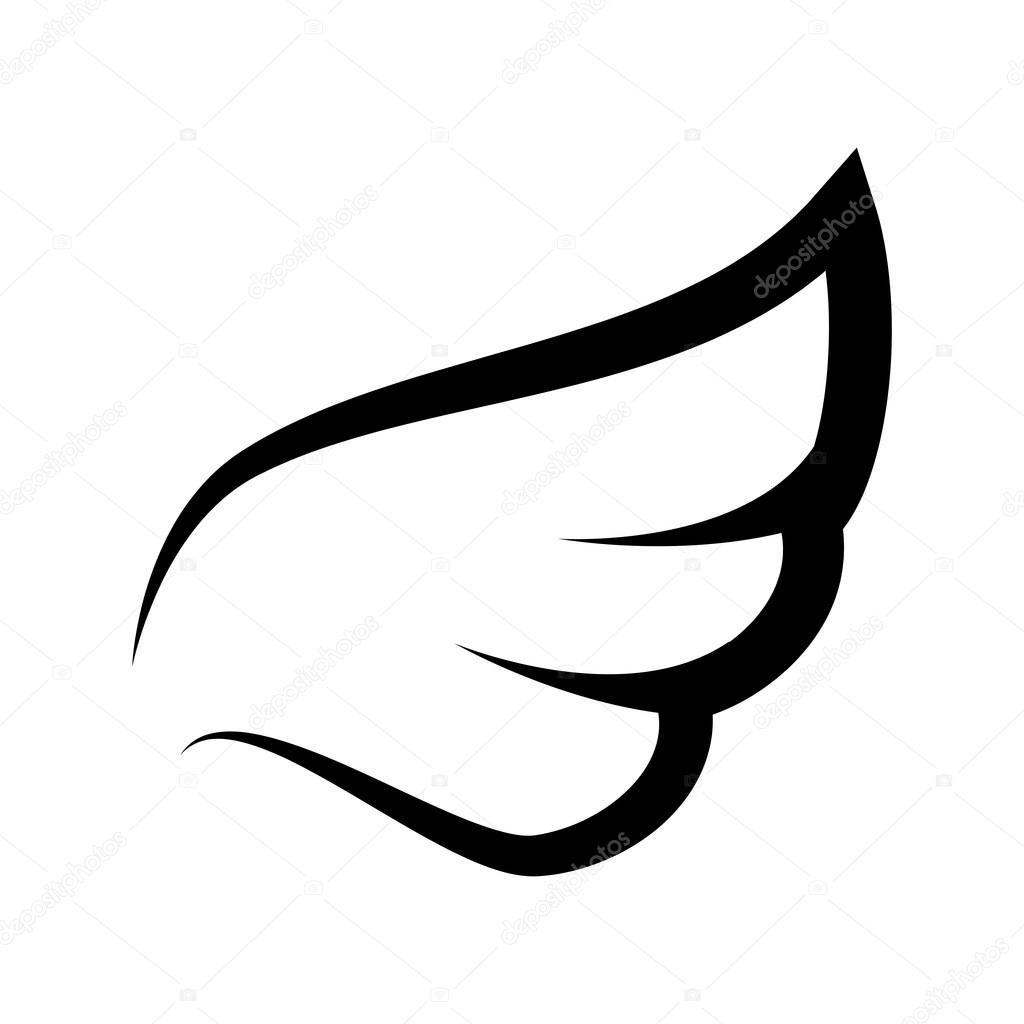
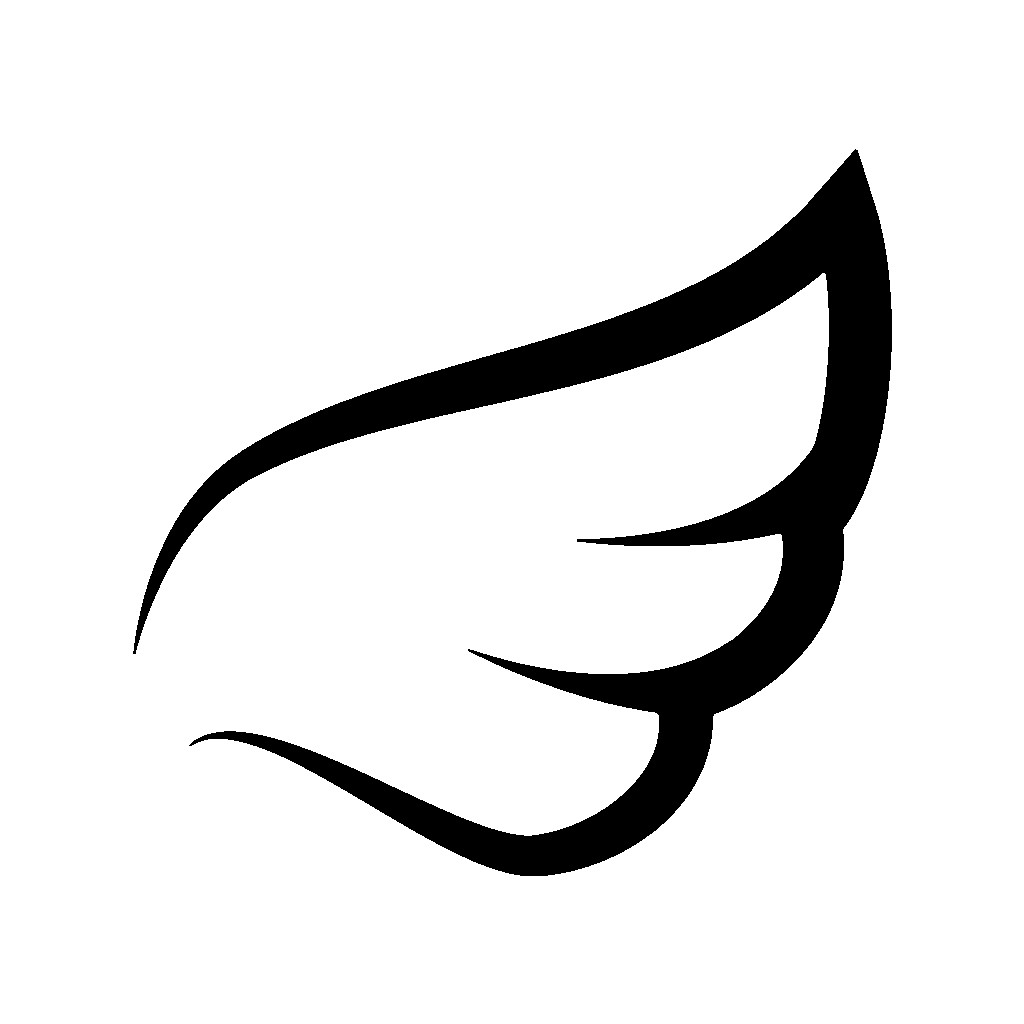
fix(raças): o Dragão sem asas; o Orsted de corpo inteiro volta pra Raça Dragão (0.1.111)
- Sem asas: na obra a Raça Dragão (Orsted, Laplace, Perugius) tem corpo de
  gente; teste trava.
- racas/dragao.webp volta a ser o Orsted na aura (em pé, página inteira da
  mítica); o esboço deitado vai pro acervo (orsted-esboco-deitado.webp).
  Foco do recorte no rosto; cópia de impressão regerada.
- Ícones do Dragão, do Demônio Imortal e do Celestial sem a marca d'água de
  banco de imagem (limiar + mediana).

diff --git a/src/data/races.ts b/src/data/races.ts
@@ -561,6 +561,9 @@ export const RACES: Race[] = [
     // de uma raça lendária (~6 PC, par do Demônio Imortal), e por isso passou a
     // poder ser ESCOLHIDO pelo preço da lendária (3 PA). O dragão adulto é o
     // despertar do Santo, uma vez por dia.
+    // Sem asas (2026-09-27, o autor: "em Mushoku eles não têm asas"): a Raça
+    // Dragão da obra — Orsted, Laplace, Perugius — tem corpo de gente. Quem
+    // voa são os Dragões Vermelhos, que são monstro, não raça.
     bonuses: { attributes: { forca: 1, vigor: 1 }, armorClass: 1 },
     upgrades: [
       {
@@ -583,7 +586,6 @@ export const RACES: Race[] = [
       "Escamas Dracônicas: +1 na CA (permanente, empilha com armadura).",
       "Garras e Presas: ataques desarmados com Dado Base d8, que sobem na Escada de Dados (Cap. 3) com o seu maior patamar do Corpo.",
       "Sopro Dracônico (1 Ação, 1 vez por Descanso Curto): cone de 9 metros do seu elemento, 1d6 por ponto do seu Maior Bônus de Rank (6d6 no Imperador). Agilidade contra CD 8 + Vigor + Maior Bônus de Rank para metade.",
-      "Asas: Deslocamento de Voo igual ao de caminhada, com as mesmas restrições das asas celestiais — sem armadura média ou pesada e sem carregar mais da metade do seu limite de carga. Voo e queda seguem a regra geral (Cap. 4, §3).",
       "+1 em Força e +1 em Vigor, permanentes, e Resistência a um tipo de dano à escolha: ígneo, frio ou elétrico. É o mesmo elemento do seu Sopro.",
       "Cem Mil Anos: você não envelhece de forma perceptível e é imune a doença comum.",
       "O Preço do Sangue: Vantagem em Intimidação, mas Desvantagem Absoluta em Persuasão e Lábia, pra sempre — nada que já foi um deus finge ser gente comum.",

diff --git a/src/data/patchNotes.ts b/src/data/patchNotes.ts
@@ -16,6 +16,26 @@ export interface PatchNote {
  */
 export const PATCH_NOTES: PatchNote[] = [
   {
+    version: "0.1.111",
+    date: "2026-09-27",
+    title: "O Dragão sem asas, e o Orsted de volta",
+    sections: [
+      {
+        heading: "A Raça Dragão",
+        items: [
+          "Sem asas: na obra, a Raça Dragão (Orsted, Laplace, Perugius) tem corpo de gente. Quem voa são os Dragões Vermelhos, que são monstro do bestiário, não raça.",
+          "A arte da raça volta a ser o Orsted de corpo inteiro na aura, em pé na página inteira da raça mítica. O esboço deitado, que o autor achou fraco, foi pro acervo.",
+        ],
+      },
+      {
+        heading: "Ícones das raças",
+        items: [
+          "Os ícones do Dragão, do Demônio Imortal e do Celestial tinham marca d'água de banco de imagem. Limpos.",
+        ],
+      },
+    ],
+  },
+  {
     version: "0.1.110",
     date: "2026-09-27",
     title: "Raças: o Dragão vira filhote, e escolher passa a custar na ficha",

diff --git a/src/components/book/FichaDeRaca.tsx b/src/components/book/FichaDeRaca.tsx
@@ -277,9 +277,9 @@ export function QuadroDasRacas() {
  * até o pé da página (esticarVitrines, em diagramacao.ts) e reorganiza os
  * brasões conforme o espaço; se o espaço for pequeno demais, some.
  */
-/** Onde está o rosto, nas artes largas: a miniatura redonda da vitrine corta pelo centro. */
+/** Onde está o rosto quando a arte é recortada (a miniatura redonda da vitrine, a página inteira da mítica). */
 const ROSTO_NA_MINIATURA: Record<string, string> = {
-  dragao: "26% 42%",
+  dragao: "58% 16%",
 };
 
 export function VitrineDasRacas() {

diff --git a/src/data/racas.test.ts b/src/data/racas.test.ts
@@ -40,6 +40,8 @@ describe("a tabela d100 das raças", () => {
     const soma = Object.values(dragao.bonuses.attributes ?? {}).reduce((a, b) => a + (b ?? 0), 0);
     expect(soma).toBeLessThanOrEqual(2);
     expect(dragao.traits.join(" ")).not.toMatch(/IMUNIDADE|dobro do de caminhada/);
+    // Na obra a Raça Dragão tem corpo de gente: sem asas.
+    expect(dragao.traits.join(" ")).not.toMatch(/Asas|Voo/);
   });
 });
 

diff --git a/acervo-de-arte/LEIAME.md b/acervo-de-arte/LEIAME.md
@@ -9,7 +9,7 @@ Cada imagem foi aberta e olhada antes de ganhar nome. O nome diz o que está na 
 
 | Arquivo | O que mostra | Onde pode entrar |
 | --- | --- | --- |
-| `orsted-aura.webp` | Orsted de corpo inteiro, envolto na aura (era a arte da Raça Dragão até 2026-09-26). | Prancha do Apêndice G (chefes), ou a Raça Dragão em página de coluna. |
+| `orsted-esboco-deitado.webp` | Esboço de fã do Orsted, meio corpo, em faixa deitada (foi a arte da Raça Dragão de 2026-09-26 a 2026-09-27; o autor achou fraca). | Só se nada melhor aparecer. |
 | `orsted-de-pe.webp` | Orsted em pé, de casaco branco, em faixa estreita e alta. | Vinheta vertical do Apêndice G. |
 | `orsted-e-nanahoshi.webp` | Orsted e Nanahoshi lado a lado. | Magia Teórica (a Nanahoshi é quem estuda os círculos). |
 | `hitogami.webp` | Uma figura branca de rosto em mosaico, com um véu de cores atrás: o Deus Humano. | O Rank Deus, ou uma página sobre o Mestre e o destino. |

diff --git a/ARTE-PARA-O-LIVRO.md b/ARTE-PARA-O-LIVRO.md
@@ -49,7 +49,8 @@ a mesma cena, ou outra, com 1600 px ou mais, fica muito melhor.
 
 As ilustrações e capas dos volumes viraram aberturas de capítulo, fechos de capítulo e pranchas. A Raça
 Dragão ganhou a arte nova (`racas/dragao.webp`, o Orsted de casaco branco, recortado numa faixa larga
-pro quadro da raça). Quatro artes que sobravam entraram como pranchas: a criação de personagem (Comece
+pro quadro da raça — em 2026-09-27 o autor achou fraca, e voltou o Orsted de corpo inteiro na aura,
+que cabe em pé na página inteira da raça mítica; o esboço foi pro acervo). Quatro artes que sobravam entraram como pranchas: a criação de personagem (Comece
 Aqui, §4), Reputação com Facções e Crafting (Cap. 5, §3 e §4) e Viagem entre Continentes (Apêndice E).
 
 **Tudo que chegou foi aproveitado ou guardado.** As 21 que ainda não têm lugar estão em
